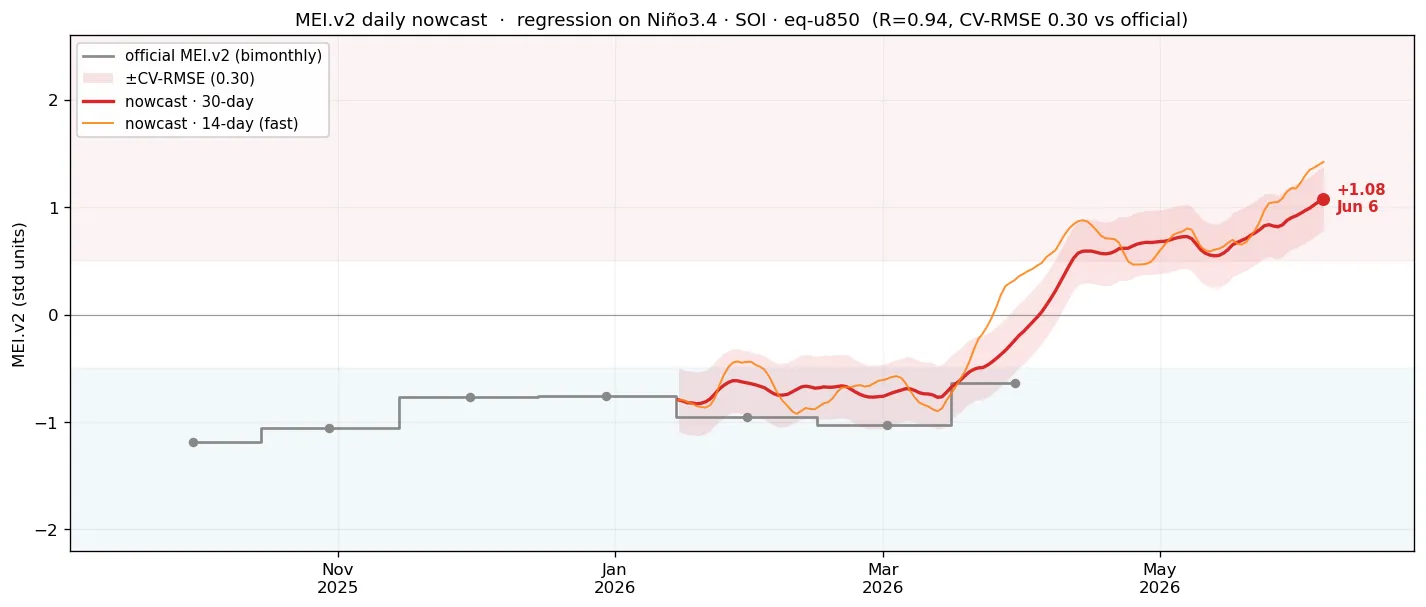
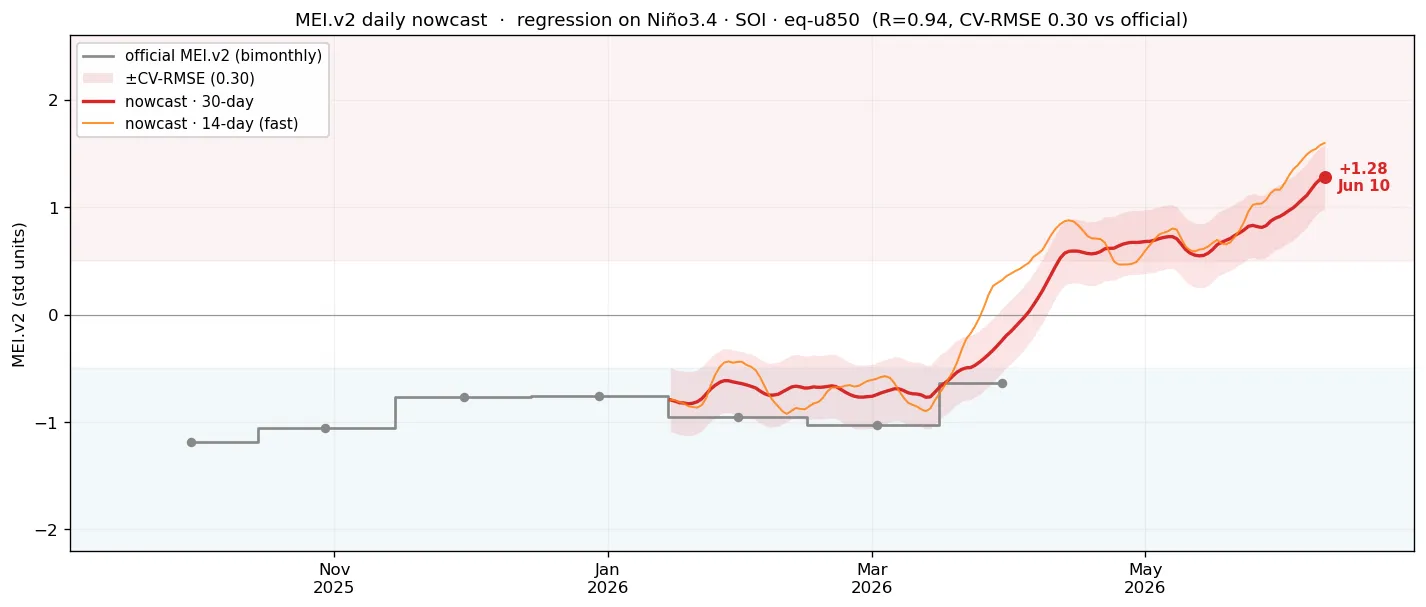
MEI nowcast: read the live OISST cache (was stuck on a dead dev mirror)
build_mei_nowcast read daily Niño-3.4 from ~/sst/data, which stopped updating on May 30 — so the
nowcast's SST input was ~10 days stale (it limped to Jun 6 only via the SOI/u850 inputs). Point it
at the repo's own OISST cache (scripts/sst/data, refreshed daily, currently through Jun 8). The
nowcast now reaches Jun 10 (30-day +1.08→+1.28, 14-day +1.42→+1.60). Also add mei_analogs/mei_history
to run_local.sh's commit list so all three MEI plots deploy each cycle (they were omitted).

diff --git a/scripts/mjo/src/build_mei_nowcast.py b/scripts/mjo/src/build_mei_nowcast.py
@@ -43,7 +43,8 @@ ROOT = HERE.parent                                   # scripts/mjo
 REF = ROOT / "data" / "reference"
 MEI_IN = ROOT / "data" / "mei"                       # cached external inputs
 CACHE = Path.home() / "mjo" / "era5_cache"
-OISST = Path.home() / "sst" / "data"                 # sst.day.anom.<year>.nc
+OISST = ROOT.parent / "sst" / "data"                 # repo's live OISST cache (scripts/sst/data),
+#                                                      refreshed daily; ~/sst/data was a dead dev mirror
 OUT = ROOT.parent.parent / "assets" / "sst" / "mei"  # repo/assets/sst/mei
 FIT_JSON = REF / "mei_fit.json"
 
